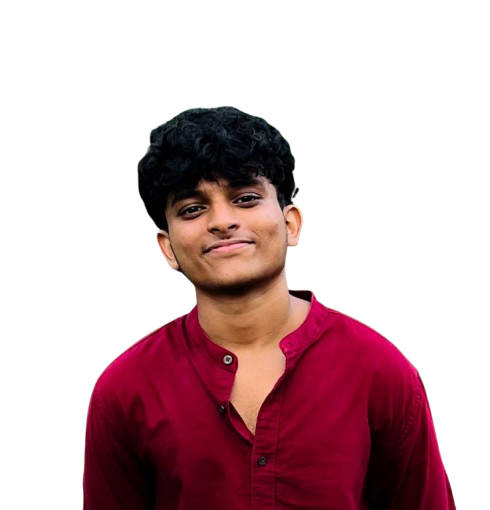
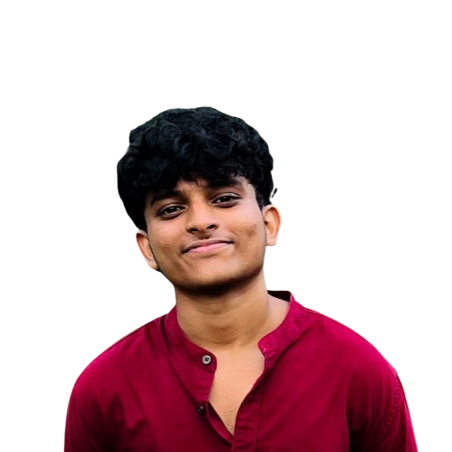
updated the pfp and the size of the 3d

Changed region(s): [[0.1239, 0.1858, 0.9292, 1.0], [0.2168, 0.9912, 0.2478, 1.0]]

diff --git a/src/index.css b/src/index.css
@@ -262,6 +262,10 @@ b{
     margin: auto;
     margin-bottom: 50px;
   }
+  .illustration-2{
+    margin: auto;
+    margin-bottom: 50px;
+  }
 }
 
 @media(max-width: 500px) {
@@ -280,6 +284,11 @@ b{
     font-size: 24px;
   }
   .illustration{
+    width: 300px;
+    height: 300px;
+    margin-bottom: 0px;
+  }
+  .illustration-2{
     width: 300px;
     height: 300px;
     margin-bottom: 0px;

diff --git a/src/Components/Home.jsx b/src/Components/Home.jsx
@@ -1,11 +1,11 @@
 import React from 'react';
 import Typed from "./Typed.jsx";
 import Tilt from 'react-parallax-tilt';
-import Pfp from '../images/HomePfp.png';
 import {CiCoffeeCup} from "react-icons/ci";
 import Coder from '../LottieFiles/coder.json';
 import Lottie from 'lottie-react';
 import Cursor from './Cursor.jsx';
+import Pfp from '../images/HomePfp.png';
 
 
 const Home = () => {
